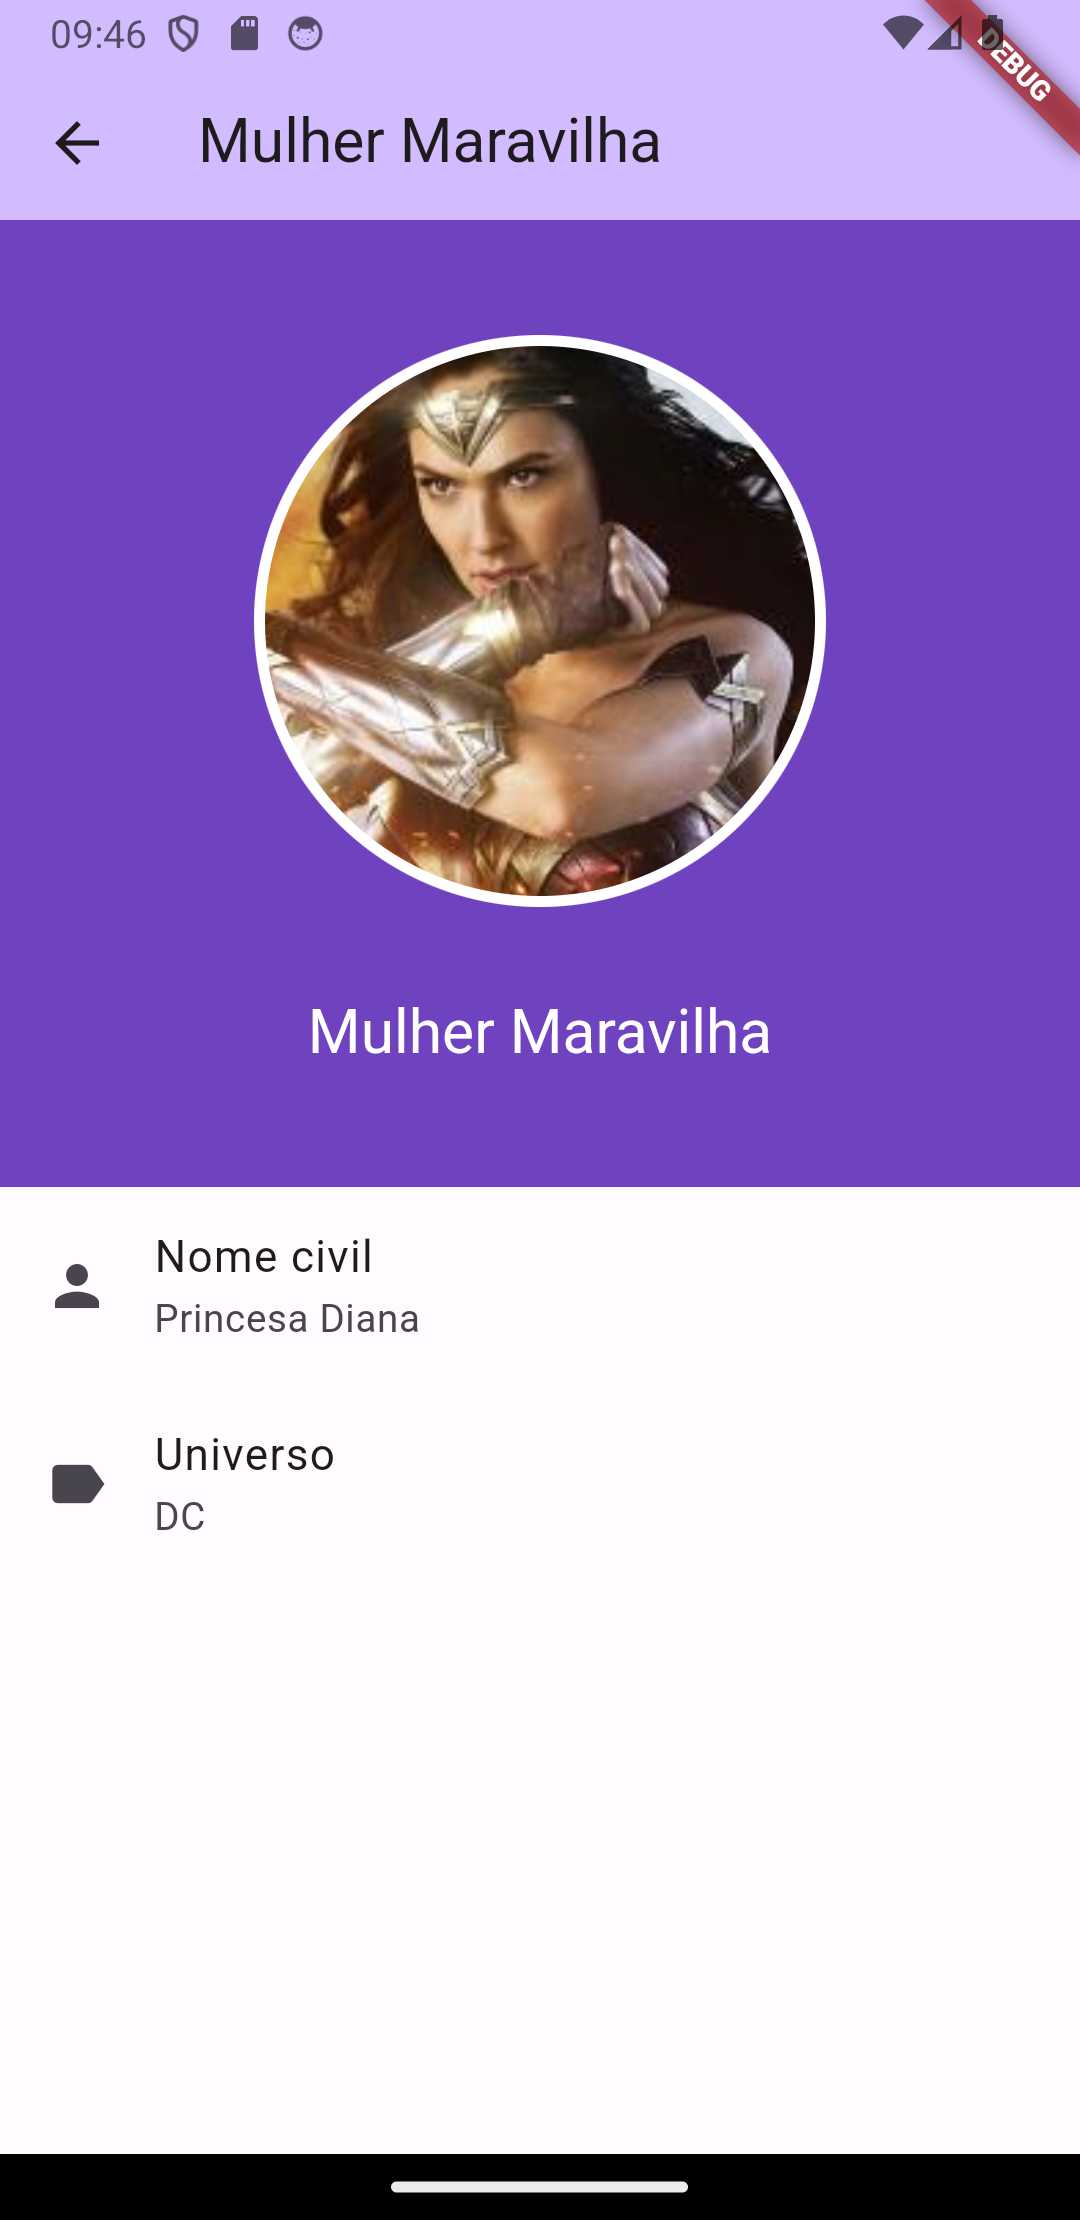
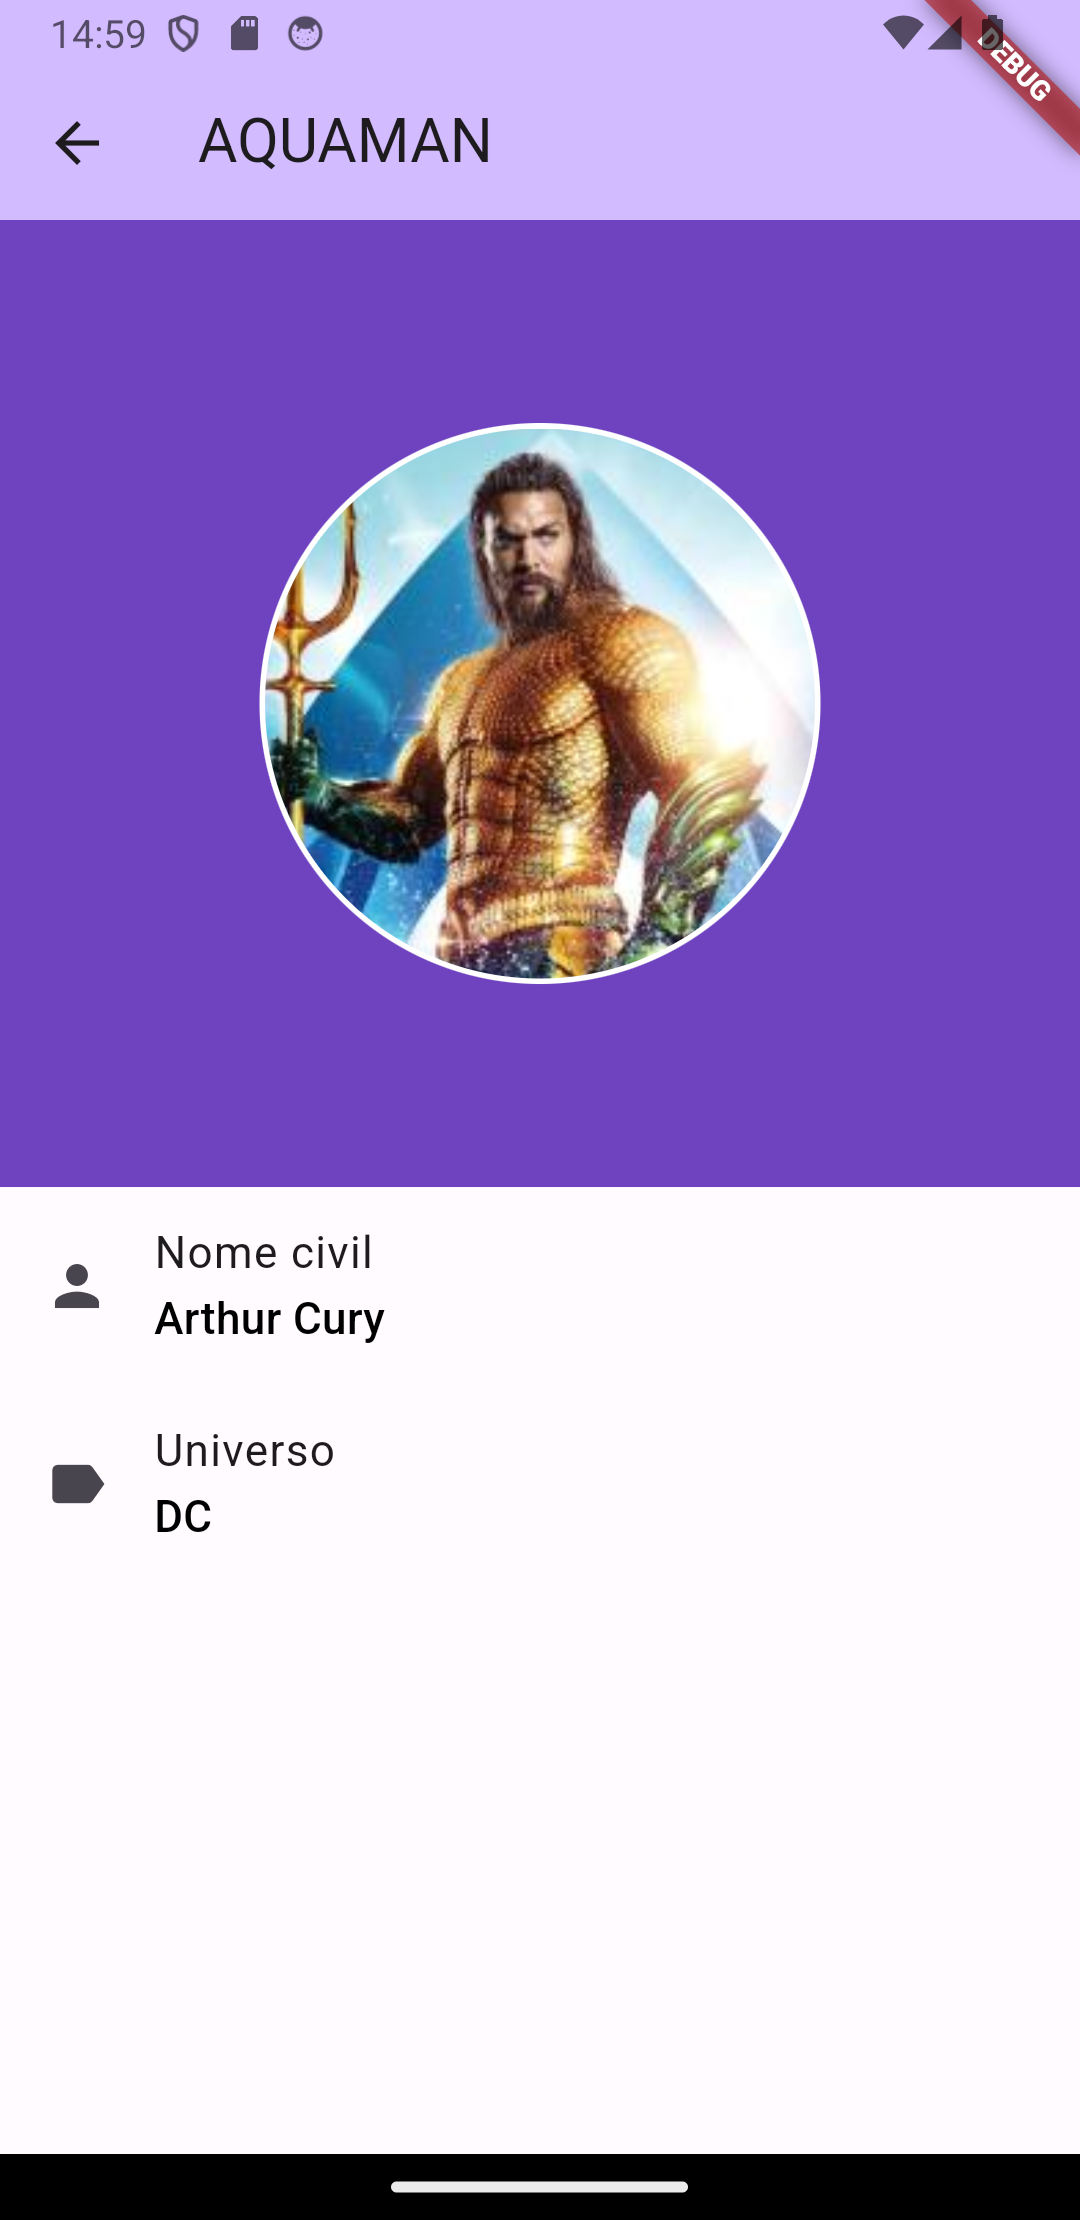
Layout

diff --git a/lib/screen/hero_detail.dart b/lib/screen/hero_detail.dart
@@ -13,7 +13,7 @@ class HeroDetail extends StatelessWidget {
     return Scaffold(
       appBar: AppBar(
         backgroundColor: Theme.of(context).colorScheme.inversePrimary,
-        title: Text(hero.name.toString()),
+        title: Text(hero.name.toString().toUpperCase()),
       ),
       body: Column(
         children: [
@@ -26,15 +26,9 @@ class HeroDetail extends StatelessWidget {
                   children: [
                     ImageProfile(imageUrl: IMG_URL + hero.image.toString()),
                     const SizedBox(
-                      height: 32,
+                      //height: 12,
                       width: double.infinity,
                     ),
-                    Text(
-                      hero.name.toString(),
-                      style: theme.textTheme.titleLarge!.copyWith(
-                        color: Colors.white,
-                      ),
-                    )
                   ],
                 ),
               )),
@@ -45,12 +39,18 @@ class HeroDetail extends StatelessWidget {
                   ListTile(
                     leading: const Icon(Icons.person),
                     title: const Text('Nome civil'),
-                    subtitle: Text(hero.civil.toString()),
+                    subtitle: Text(hero.civil.toString(),
+                        style: theme.textTheme.titleMedium!.copyWith(
+                          color: Colors.black,
+                        )),
                   ),
                   ListTile(
                     leading: const Icon(Icons.label),
                     title: const Text('Universo'),
-                    subtitle: Text(hero.universe.toString()),
+                    subtitle: Text(hero.universe.toString(),
+                        style: theme.textTheme.titleMedium!.copyWith(
+                          color: Colors.black,
+                        )),
                   )
                 ],
               )),
@@ -71,7 +71,7 @@ class ImageProfile extends StatelessWidget {
         color: Colors.white,
         shape: BoxShape.circle,
       ),
-      padding: const EdgeInsets.all(4),
+      padding: const EdgeInsets.all(2),
       child: CircleAvatar(
         radius: 100.0,
         backgroundImage: NetworkImage(imageUrl),

diff --git a/lib/screen/hero_list.dart b/lib/screen/hero_list.dart
@@ -24,13 +24,12 @@ class _HeroListState extends State<HeroList> {
   }
 
   Widget _buildBody() {
+    final theme = Theme.of(context);
     return FutureBuilder(
       builder: (context, snapshot) {
         if (snapshot.connectionState == ConnectionState.done) {
           var heroes = snapshot.data;
-          return ListView.separated(
-            separatorBuilder: (BuildContext context, int index) =>
-                const Divider(),
+          return ListView.builder(
             itemCount: heroes == null ? 0 : heroes.length,
             itemBuilder: (context, index) {
               var hero = heroes[index];
@@ -38,9 +37,15 @@ class _HeroListState extends State<HeroList> {
                 leading: CircleAvatar(
                   backgroundImage: NetworkImage(IMG_URL + hero.image),
                 ),
-                title: Text(hero.name),
+                title: Text(
+                  hero.name,
+                  style: theme.textTheme.titleMedium!.copyWith(
+                    color: Colors.black,
+                  ),
+                ),
                 subtitle: Text(hero.civil),
                 trailing: const Icon(Icons.keyboard_arrow_right_sharp),
+                isThreeLine: true,
                 onTap: () {
                   Navigator.push(
                     context,

diff --git a/lib/main.dart b/lib/main.dart
@@ -11,12 +11,12 @@ class MyApp extends StatelessWidget {
   @override
   Widget build(BuildContext context) {
     return MaterialApp(
-      title: 'App Herói Flutter',
+      title: 'APP_HEROI_FLUTTER',
       theme: ThemeData(
         colorScheme: ColorScheme.fromSeed(seedColor: Colors.deepPurple),
         useMaterial3: true,
       ),
-      home: const HeroList(title: 'App Herói Flutter'),
+      home: const HeroList(title: 'APP_HEROI_FLUTTER'),
     );
   }
 }
